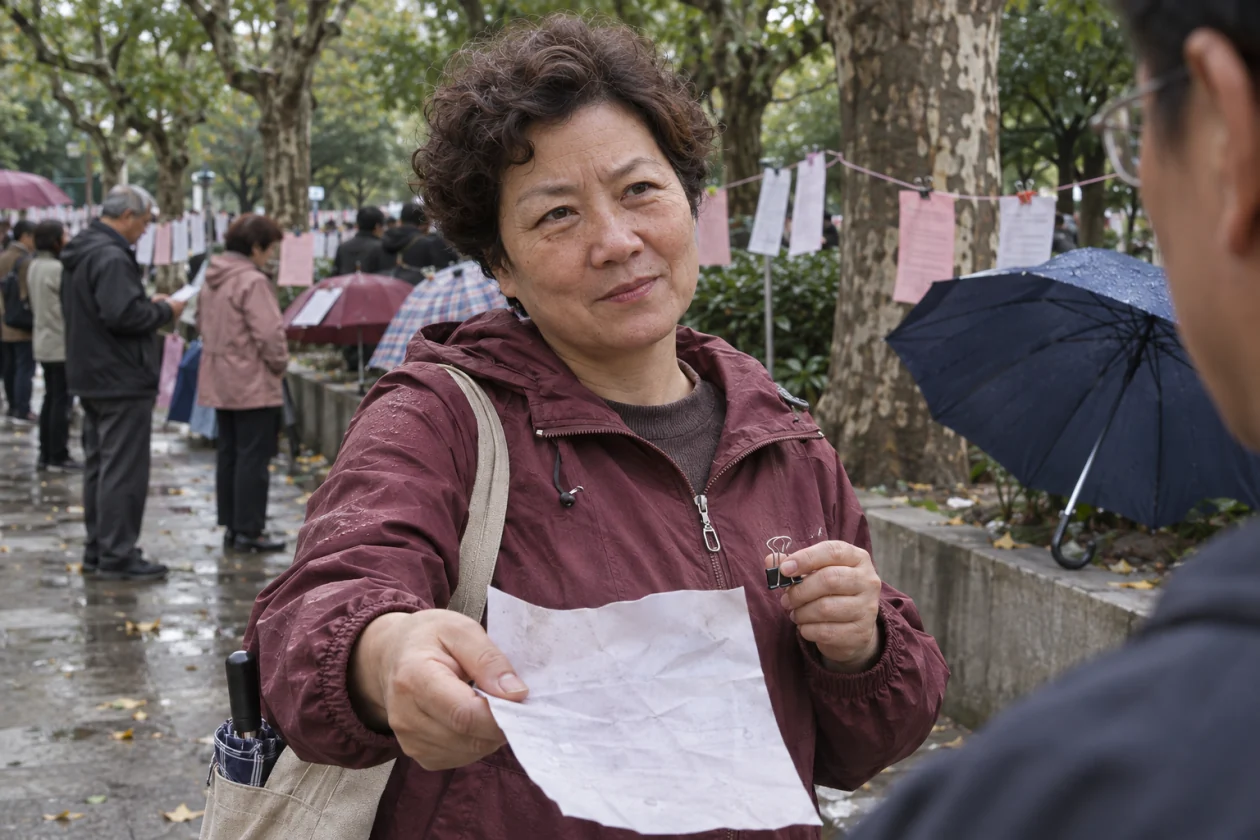
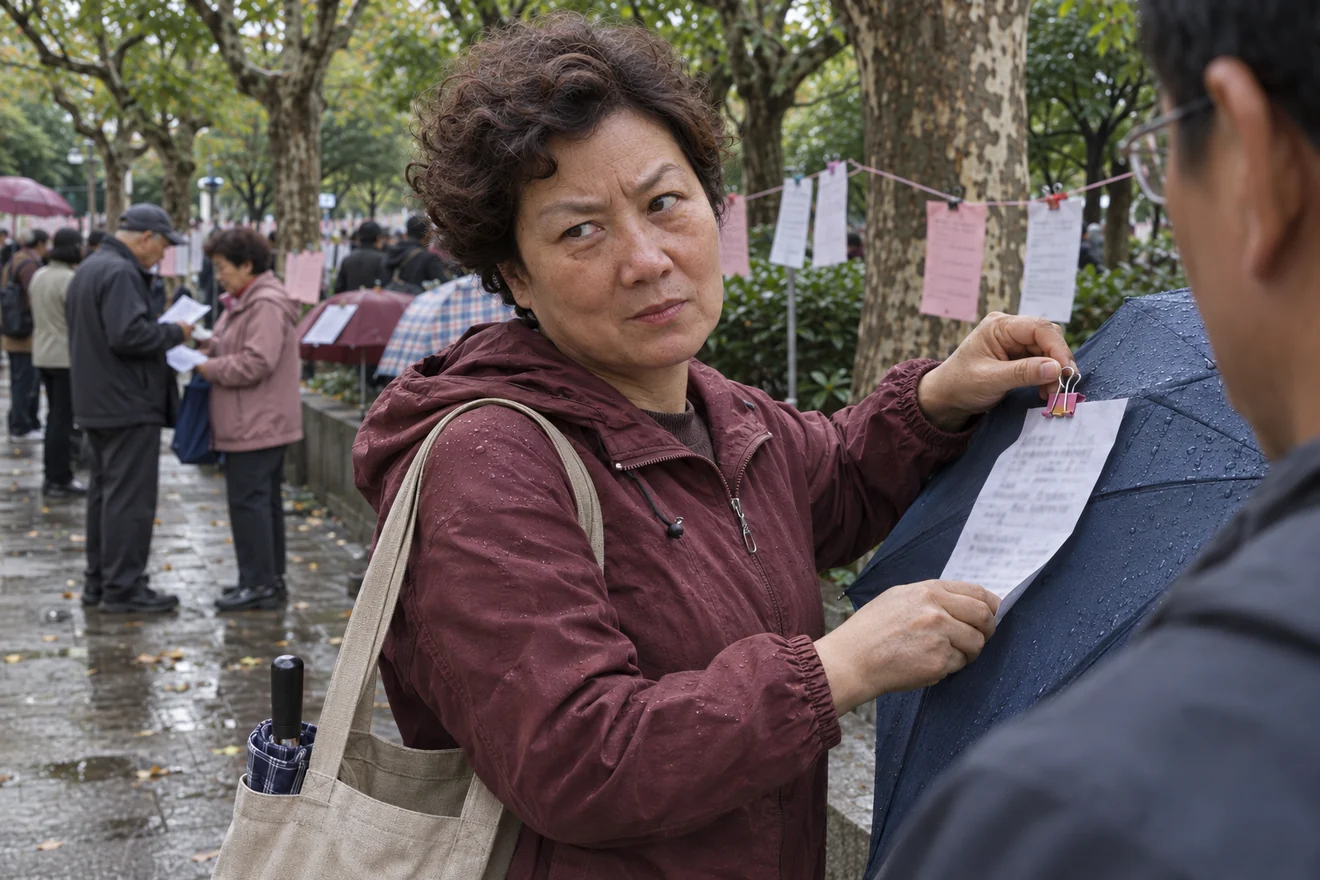
Follow the Shanghai matchmaking corner into the next year

diff --git a/src/game/matchmaking.ts b/src/game/matchmaking.ts
@@ -1,10 +1,13 @@
 import { matchPhoto } from './art';
+import { householdPlan, housingPayment } from './household';
 import type { GameState, LifeEvent } from './types';
 
 type Visit = { event: LifeEvent; message?: string };
 
 const openingId = 'matchmaking-paper';
 const location = { category: 'romance', district: 'people', tag: '相亲角' } as const;
+const rent = 2800;
+const formatMoney = (value: number) => '¥' + value.toLocaleString('zh-CN');
 
 function opening(housing: GameState['housing']): LifeEvent {
  const owns = housing === 3;
@@ -41,7 +44,7 @@ function listed(overstated: boolean): LifeEvent {
     effect: { skill: 7, trust: 8, network: 4 } },
    { id: 'buy', label: '先把话题岔开 · 今天我请 ¥128',
     reply: '她把多点的点心装进袋子，说她妈下次还要问。你到家发现一张纸夹在袋里，有房那行被奶茶洇得看不清了。',
-    effect: { cash: -128, spirit: -3, face: 4 } },
+    effect: { cash: -128, spirit: -3, face: 4, setFlags: ['match-left-address'] } },
   ],
  };
 }
@@ -52,7 +55,7 @@ const edited: LifeEvent = {
  choices: [
   { id: 'practice', label: '趁摊没开 · 一人挑一段简历改',
    reply: '你把「协助参与」圈了出来。唐圆问你自己上回那份写的什么，你翻了一下，也是一模一样四个字。',
-   effect: { skill: 8, trust: 7 } },
+   effect: { skill: 8, trust: 7, setFlags: ['match-edited-resume'] } },
   { id: 'eat', label: '先吃馄饨 · 顺便打包一碗 ¥40',
    reply: '你把打包的递给唐圆。她说她妈下礼拜还来挂纸，到时候给她带去，让她站在那儿也有口热的。',
    effect: { cash: -40, spirit: 9, trust: 8 } },
@@ -68,9 +71,9 @@ const folded: LifeEvent = {
  choices: [
   { id: 'hang', label: '就在这儿拍 · 我帮你把纸挂上',
    reply: '她写「不赶路，也不迟到」。隔壁的爷叔看了，说能不能十点半就到，摊上还剩两条小黄鱼。他们约好了在菜场门口等。',
-   effect: { network: 9, trust: 10 } },
+   effect: { network: 9, trust: 10, setFlags: ['match-hung-aunt'] } },
   { id: 'walk', label: '这礼拜先跟我走 · 九点门口见',
-   reply: '走到菜场她把你丢给卖豆腐的摊主，自己去买鱼。回来时豆腐摊主已经跟你讲完了他儿子两次辞职的事。',
+   reply: '走到菜场她让你给她拍一张，自己接着去买鱼。回来时豆腐摊主已经跟你讲完了他儿子两次辞职的事。',
    effect: { health: 5, network: 6, trust: 5 } },
   { id: 'print', label: '只拍张本人 · 洗两张 ¥12',
    reply: '她把一张塞进透明手机壳，另一张寄给了外地的老同学。后来你路过，那张纸上换了行字，写的是什么时候去逛菜场。',
@@ -78,14 +81,109 @@ const folded: LifeEvent = {
  ],
 };
 
+function leaseVisit(housing: number, leaseRent?: number, shared = false, leftAddress = false): LifeEvent {
+ const canMove = housing < 3 && !shared;
+ const memory = leftAddress
+  ? '唐圆把当初洇花的那张纸也带来了。她说这回先看哪间真能住。'
+  : '唐圆把你们当初那两张纸翻到背面，上头记着房东的号码。';
+ return {
+  ...location, id: 'matchmaking-lease', title: '房东只配了一把钥匙',
+  speakerId: 'tang', illustration: matchPhoto('lease'),
+  text: memory + ' 同一层空了两间。她已经定下靠楼梯的那间，另一间月租两千八，水电各算。房东说明早还有人看，今天要留就先押一个月。',
+  choices: [
+   canMove ? {
+    id: 'sign', label: '签隔壁这间 · 押 ¥2,800',
+    hint: '你的月租 ' + formatMoney(housingPayment(housing, leaseRent, false)) + ' → ' + formatMoney(rent),
+    reply: '房东翻了半天只找到一把。你和唐圆一起下楼配钥匙，回来时已经能分清哪一扇门是自己的。',
+    effect: { housing: 1, leaseRent: rent, cash: -rent, trust: 9, setFlags: ['match-neighbor'] },
+   } : {
+    id: 'sign', label: '我有住处 · 陪她给门锁配把备用钥匙',
+    reply: '配钥匙的师傅问要不要多打一把。唐圆说两把够了，又补一句，一把先放你那儿，哪天忘带好找。',
+    effect: { cash: -25, trust: 9 },
+   },
+   { id: 'measure', label: '先不搬 · 帮她把水电表拍下来',
+    reply: '唐圆让你再拍一张近的。房东说差一格也没多少钱，她把手机放到合同旁边，说那就更好写进去。',
+    effect: { skill: 7, trust: 6 } },
+   { id: 'pass', label: '问清空房的价 · 转给正在找房的人',
+    reply: '你把采光最差的那张也发了。对方看完问能不能便宜两百。唐圆说这才像有人真的在找房。',
+    effect: { network: 8, face: 4 } },
+  ],
+ };
+}
+
+function workVisit(employed: boolean, editedResume = false): LifeEvent {
+ const memory = editedResume
+  ? '唐圆认出报名表上那句「协助参与」，说这回轮到写招聘的人交代清楚。'
+  : '唐圆把招聘表往馄饨碗旁边挪了挪，说这回先把钱那栏看完。';
+ return {
+  ...location, id: 'matchmaking-work', title: '招聘表最后一栏是周末',
+  speakerId: 'tang', illustration: matchPhoto('work'),
+  text: memory + ' 社区活动室在找人。试班一天三百六，正式上班得接两次周末。唐圆想先接半天，她问你要不要跟她去一趟。',
+  choices: [
+   { id: 'shift', label: '一起接今天的班 · 当天结 ¥360',
+    reply: '你们把来办事的人按门牌分成两列。最后一位爷叔排了两遍，说第一遍是替楼上的邻居。',
+    effect: { cash: 360, health: -3, network: 5, trust: 7, setFlags: ['match-worked-together'] } },
+   employed ? {
+    id: 'job', label: '我有班上 · 帮她问清周末怎么轮',
+    reply: '负责人说两次就是两次。唐圆追问到对方拿出上个月的排班表，你们从第一格数到最后一格。',
+    effect: { skill: 6, trust: 8 },
+   } : {
+    id: 'job', label: '接正式班 · 每月轮两次周末',
+    hint: '入职公共与社区 · 基本月薪 ¥7,200',
+    reply: '你把名字签在第一周。唐圆选了临时班，看到你的名字又往后挪了一格，说至少有一班能搭着干。',
+    effect: { job: 'public', trust: 7, skill: 4, setFlags: ['match-worked-together'] },
+   },
+   { id: 'help', label: '我不接 · 先帮她试一遍怎么问工钱',
+    reply: '你装负责人，她问了三遍午休算不算工时。上场后她只问了一遍，对面就拿出一张新的表。',
+    effect: { skill: 8, trust: 6 } },
+  ],
+ };
+}
+
+function marketVisit(hung = false): LifeEvent {
+ const memory = hung ? '看过她照片的那位爷叔已经在鱼摊等。' : '汪阿姨带着你拍的照片来买鱼。摊边那位提布袋的爷叔先认出了她，说你不就在公园门口挂过伞。';
+ return {
+  ...location, id: 'matchmaking-market', title: '九点零五，鱼摊见',
+  speakerId: 'aunt', illustration: matchPhoto('market'),
+  text: memory + ' 汪阿姨挑了两条小黄鱼，问价时鱼摊老板把另一袋递给她，说爷叔已经付过。她不肯收两份，问你哪袋带回家、哪袋拿去楼下烧。',
+  choices: [
+   { id: 'table', label: '一起拿到楼下烧 · 给鱼摊老板留个位',
+    reply: '他们搭了张折桌，短的那条腿下面塞了三张旧菜单。你问还晃不晃，汪阿姨伸手按住，说坐下来吃就不晃。',
+    effect: { spirit: 9, network: 7, trust: 7, setFlags: ['match-market-table'] } },
+   { id: 'buy', label: '再称两条 · 拿一袋回家 ¥36',
+    reply: '鱼摊老板把三袋放上秤，算到最后只收了你的钱。汪阿姨回去给你发做法，第一句是锅先别洗。',
+    effect: { cash: -36, spirit: 8, trust: 8 } },
+   { id: 'leave', label: '让他们自己分 · 我替你去收伞',
+    reply: '你把蓝伞带回公园。原来夹照片的地方还空着，你干脆把夹子拿下来，别在伞套上。',
+    effect: { health: 4, network: 5, trust: 8 } },
+  ],
+ };
+}
+
+function seenInPreviousYear(state: GameState, event: LifeEvent) {
+ if (!state.seenEvents.includes(event.id)) return false;
+ const entry = state.journal.find(item => item.tag === location.tag && item.title === event.title);
+ return entry !== undefined && entry.age < state.age;
+}
+
 export function parkVisit(state: GameState): Visit | null {
- if (state.pendingYearEvent || state.ended) return null;
+ if (state.pendingYearEvent || state.ended || state.actions <= 0) return null;
  if (!state.seenEvents.includes(openingId)) return state.partnerId ? null : { event: opening(state.housing) };
- const next = state.flags.includes('match-listed') ? { event: listed(state.flags.includes('match-address-only')), message: '有人拿着你那张纸来问地址' }
-  : state.flags.includes('match-edited') ? { event: edited, message: '唐圆在长椅上给你留了个位' }
-  : state.flags.includes('match-folded') ? { event: folded, message: '汪阿姨问你能不能帮她拍张照' }
+ const flags = state.flags;
+ const next = flags.includes('match-listed') ? { event: listed(flags.includes('match-address-only')), message: '有人拿着你那张纸来问地址' }
+  : flags.includes('match-edited') ? { event: edited, message: '唐圆在长椅上给你留了个位' }
+  : flags.includes('match-folded') ? { event: folded, message: '汪阿姨问你能不能帮她拍张照' }
   : null;
- return next && !state.seenEvents.includes(next.event.id) ? next : null;
+ if (!next) return null;
+ if (!state.seenEvents.includes(next.event.id)) return next;
+ if (!seenInPreviousYear(state, next.event)) return null;
+ const follow = flags.includes('match-listed') ? {
+  event: leaseVisit(state.housing, state.leaseRent, householdPlan(state) === 'shared', flags.includes('match-left-address')), message: '唐圆说她隔壁空出一间',
+ } : flags.includes('match-edited') ? {
+  event: workVisit(Boolean(state.jobId), flags.includes('match-edited-resume')), message: '唐圆想请你一起去试班',
+ } : { event: marketVisit(flags.includes('match-hung-aunt')), message: '汪阿姨把约会改到鱼摊了' };
+ return state.seenEvents.includes(follow.event.id) ? null : follow;
 }
 
 export const PARK_TICKET_SCENES = [opening(1), listed(true), edited, folded] as const;
+export const PARK_RETURN_TICKET_SCENES = [leaseVisit(1, undefined, false, true), workVisit(false, true), marketVisit(true)] as const;

diff --git a/src/App.tsx b/src/App.tsx
@@ -293,6 +293,7 @@ export default function App(){
  const openingMessages=activeEvent?.id==='first-night-arrival';
  const rentalEvidence=activeEvent?.rentalEvidence;
  const tableScene=scenePhoto?.startsWith('/art/long-table/')??false;
+ const parkScene=scenePhoto?.startsWith('/art/matchmaking/')??false;
  const offerScene=!!activeEvent&&isJobOffer(activeEvent.id);
  const stallScene=!!activeEvent&&isStallSettlement(activeEvent.id);
  const birthScene=activeEvent?.id.startsWith('origin-arrival-')??false;
@@ -300,7 +301,7 @@ export default function App(){
  const signedOffer=!!outcome?.source&&isJobOffer(outcome.source.event.id)&&outcome.effect.payRate!==undefined;
  const focusScene=Boolean(activeEvent?.firstDate)||rentalEvidence!==undefined||tableScene||offerScene||birthScene||stallScene||householdScene;
  const partingBill=activeEvent?.firstDate ? -(activeEvent.choices[0].effect.cash??0) : 0;
- const wideShot=scenePhoto?.startsWith('/art/shanghai-streets/first-night-')||scenePhoto?.startsWith('/art/dates/')||scenePhoto?.startsWith('/art/endings/farewell-')||scenePhoto?.startsWith('/art/work/')||scenePhoto?.startsWith('/art/pearl/')||scenePhoto?.startsWith('/art/matchmaking/')||scenePhoto?.startsWith('/art/opening/')||scenePhoto?.startsWith('/art/rental/')||scenePhoto?.startsWith('/art/night-ferry/')||tableScene||offerScene||stallScene;
+ const wideShot=scenePhoto?.startsWith('/art/shanghai-streets/first-night-')||scenePhoto?.startsWith('/art/dates/')||scenePhoto?.startsWith('/art/endings/farewell-')||scenePhoto?.startsWith('/art/work/')||scenePhoto?.startsWith('/art/pearl/')||parkScene||scenePhoto?.startsWith('/art/opening/')||scenePhoto?.startsWith('/art/rental/')||scenePhoto?.startsWith('/art/night-ferry/')||tableScene||offerScene||stallScene;
  const leadButtons=game&&(lead||cardLead)?<div className="story-leads">{[lead,cardLead].map(item=>item&&<button
   key={item.event.id} className={'story-lead'+(item===cardLead?' opening-lead':'')}
   disabled={blocked||game.actions<=0} onClick={()=>openLead(item.event)}>
@@ -383,7 +384,7 @@ export default function App(){
  </main>}
  {screen==='end'&&game&&<EndingScreen game={game} sharing={sharing} onShare={share}
   onChallenge={copyChallenge} onDraw={beginDraw} onJournal={()=>setModal('journal')} onLines={()=>setModal('lines')}/>}
- {dialogOpen&&<div className="modal-backdrop" onMouseDown={e=>{if(e.target===e.currentTarget&&!activeEvent&&!mini&&!outcome)setModal(null);}}><section className={'modal '+(activeEvent?'event-modal':'')+(wideShot?' wide-shot-modal':'')+(openingMessages?' arrival-modal':'')+(activeEvent?.firstDate?' date-parting-modal':'')+(rentalEvidence!==undefined?' rental-negotiation':'')+(tableScene?' long-table-modal':'')+(offerScene?' job-offer-modal':'')+(birthScene||stallScene||householdScene?' birth-scene-modal':'')+(mini?' minigame-modal':'')+(mini?.type==='rental'?' rental-modal':'')+(mini?.type==='stall'?' stall-modal':'')+(mini?.type==='dialogue'?(mini.person?' date-modal':' date-modal work-interview-modal'):'')+(modal==='romance'?' romance-modal':'')+(modal==='journal'?' journal-modal':'')+(modal==='lines'?' lines-modal':'')} role="dialog" aria-modal="true" aria-label={activeEvent?.title||outcome?.title||(mini?.type==='stall'?'晚风小吃街':mini?'人生现场':modal==='saves'?'存档':modal==='journal'?'人生记事':modal==='lines'?'时间线':modal==='contacts'?(profile?.name??'认识的人'):'魔都人生')}>
+ {dialogOpen&&<div className="modal-backdrop" onMouseDown={e=>{if(e.target===e.currentTarget&&!activeEvent&&!mini&&!outcome)setModal(null);}}><section className={'modal '+(activeEvent?'event-modal':'')+(wideShot?' wide-shot-modal':'')+(openingMessages?' arrival-modal':'')+(activeEvent?.firstDate?' date-parting-modal':'')+(rentalEvidence!==undefined?' rental-negotiation':'')+(tableScene?' long-table-modal':'')+(parkScene?' match-scene':'')+(offerScene?' job-offer-modal':'')+(birthScene||stallScene||householdScene?' birth-scene-modal':'')+(mini?' minigame-modal':'')+(mini?.type==='rental'?' rental-modal':'')+(mini?.type==='stall'?' stall-modal':'')+(mini?.type==='dialogue'?(mini.person?' date-modal':' date-modal work-interview-modal'):'')+(modal==='romance'?' romance-modal':'')+(modal==='journal'?' journal-modal':'')+(modal==='lines'?' lines-modal':'')} role="dialog" aria-modal="true" aria-label={activeEvent?.title||outcome?.title||(mini?.type==='stall'?'晚风小吃街':mini?'人生现场':modal==='saves'?'存档':modal==='journal'?'人生记事':modal==='lines'?'时间线':modal==='contacts'?(profile?.name??'认识的人'):'魔都人生')}>
  {!(activeEvent&&game?.pendingYearEvent)&&<button className="modal-close icon-button" aria-label="关闭" onClick={()=>{if(outcome)closeOutcome();else{setModal(null);setMini(null);dismissEvent();}}}><Icon name="close"/></button>}
  {modal==='help'&&<div className="help-content"><h2>怎么玩</h2><div className="help-step"><b>01</b><div><h3>先抽五张人生牌</h3><p>每类一张，有两次重抽机会。</p></div></div><div className="help-step"><b>02</b><div><h3>每年三次行动</h3><p>点地点办事，每次扣一格。走路、换城区不扣行动。</p></div></div><div className="help-step"><b>03</b><div><h3>年底结账</h3><p>点年度结算，工资到账，房租和生活费一起扣。六十岁结局。</p></div></div><button className="primary" onClick={()=>setModal(null)}>晓得了 <Icon name="check" size={18}/></button><small className="fiction-note">人物与怪谈均为虚构</small></div>}
  {modal==='lines'&&book&&<LifeLines book={book} onFork={branchFrom} onSwitch={returnToLine} onDrop={id=>setBook(current=>current?dropLine(current,id):current)}/>}

diff --git a/tests/matchmaking.test.ts b/tests/matchmaking.test.ts
@@ -1,6 +1,8 @@
 import { describe, expect, it } from 'vitest';
-import { createGame, drawOrigins, resolveChoice } from '../src/game/engine';
+import { createGame, drawOrigins, nextYear, resolveChoice } from '../src/game/engine';
+import { householdFlag } from '../src/game/household';
 import { activeLine, decodeLife, encodeLife, forkLife, recordDecision, replayScene, startBook, switchLine } from '../src/game/lifeLines';
+import { longTableYear } from '../src/game/longTable';
 import { parkVisit } from '../src/game/matchmaking';
 import { streetLead } from '../src/game/streetLeads';
 import { draftFromEvent, ticketFromHash, validateTicket, walk } from '../src/game/timelines';
@@ -70,5 +72,73 @@ describe("People's Park matchmaking corner", () => {
   const original = activeLine(switchLine(book, 0)).state;
   expect(original.seenEvents).toContain('matchmaking-coffee');
   expect(original.flags).not.toContain('match-folded');
+ });
+
+ it('opens the return visit after a year and replays the exact lease offer', () => {
+  const before = { ...start(), cash: 200000, leaseRent: 3600 };
+  const first = resolveChoice(before, parkVisit(before)!.event, 'list').state;
+  const second = resolveChoice(first, parkVisit(first)!.event, 'buy').state;
+  expect(parkVisit(second)).toBeNull();
+  const later = nextYear(second).state;
+  expect(parkVisit(later)).toBeNull();
+  const ready = { ...later, pendingYearEvent: false };
+  const offer = streetLead(ready)!.event;
+  expect(offer.id).toBe('matchmaking-lease');
+  expect(offer.text).toContain('洇花');
+  expect(offer.choices[0].hint).toContain('¥3,600 → ¥2,800');
+  const signed = resolveChoice(ready, offer, 'sign').state;
+  expect(signed.leaseRent).toBe(2800);
+  expect(signed.cash).toBe(ready.cash - 2800);
+  expect(nextYear(signed).rentExpense).toBe(33600);
+  expect(parkVisit(signed)).toBeNull();
+  const fork = activeLine(forkLife(decodeLife(encodeLife(recordDecision(startBook(ready), signed, offer, 'sign'))), 0));
+  expect(replayScene(fork.state, fork.replay!)).toEqual(offer);
+
+  const ownHome = { ...ready, housing: 3, leaseRent: undefined };
+  const sharesHome = { ...ready, partnerId: 'lu', flags: [...ready.flags, householdFlag('lu', 'shared')] };
+  for (const state of [ownHome, sharesHome]) {
+   const visit = parkVisit(state)!.event;
+   const result = resolveChoice(state, visit, 'sign').state;
+   expect(result.housing).toBe(state.housing);
+   expect(result.leaseRent).toBe(state.leaseRent);
+  }
+ });
+
+ it('keeps a current job and remembers both ways the old folding table got used', () => {
+  const before = start();
+  for (const [firstPick, secondPick, finalPick, eventId, callback] of [
+   ['edit', 'practice', 'job', 'matchmaking-work', '排过班'],
+   ['fold', 'hang', 'table', 'matchmaking-market', '旧菜单'],
+  ]) {
+   const first = resolveChoice(before, parkVisit(before)!.event, firstPick).state;
+   const second = resolveChoice(first, parkVisit(first)!.event, secondPick).state;
+   const ready = { ...second, age: 19, actions: 3, jobId: null };
+   const event = parkVisit(ready)!.event;
+   expect(event.id).toBe(eventId);
+   const result = resolveChoice(ready, event, finalPick);
+   expect(longTableYear({ ...result.state, age: 32 })?.text).toContain(callback);
+   expect(draftFromEvent(event, finalPick, result.text, 19, '人民广场').turns[0].shot).toBe(event.illustration);
+   if (firstPick === 'edit') {
+    expect(result.state.jobId).toBe('public');
+    const employed = { ...ready, jobId: 'tech' };
+    const other = parkVisit(employed)!.event;
+    expect(resolveChoice(employed, other, 'job').state.jobId).toBe('tech');
+    const olderSave = { ...ready, flags: ready.flags.filter(flag => flag !== 'match-edited-resume') };
+    expect(parkVisit(olderSave)!.event.id).toBe(eventId);
+   }
+  }
+ });
+
+ it('opens three return routes independently in the other life mode', () => {
+  const { timeline } = validateTicket(ticketFromHash('#story=park-next-year'));
+  expect(timeline.turns[0].shot).toBe('/art/shanghai-streets/people.webp');
+  for (const [route, node, shot] of [
+   [[0, 0], 2, 'lease'], [[0, 1], 3, 'work'], [[1], 4, 'market'],
+  ] as const) {
+   const moves = route.map(pick => ({ pick }));
+   expect(walk(timeline, moves).next).toBe(node);
+   expect(timeline.turns[node].shot).toBe('/art/matchmaking/' + shot + '.webp');
+   expect(walk(timeline, [...moves, { pick: 0 }]).next).toBeNull();
+  }
  });
 });

diff --git a/src/game/timelines.ts b/src/game/timelines.ts
@@ -1,5 +1,5 @@
 import type { EventChoice, LifeEvent } from './types';
-import { PARK_TICKET_SCENES } from './matchmaking';
+import { PARK_RETURN_TICKET_SCENES, PARK_TICKET_SCENES } from './matchmaking';
 import { FERRY_STILLS, FIRST_NIGHT_STILLS, MATCH_STILLS, OPENING_STILLS, TABLE_STILLS, datePhoto, farewellPhoto, ferryPhoto, matchPhoto, offerPhoto, openingPhoto, pearlPhoto, rentalPhoto, stallPhoto, streetPhoto, tablePhoto, workPhoto } from './art';
 import { CAREERS, CAST } from './content';
 import { PHOTO_SHOP_STILLS, PHOTO_SHOP_STORY, photoShopStill } from './photoShop';
@@ -43,6 +43,7 @@ const archiveShots = {
 };
 const ticketShots = new Set([
   streetPhoto('station'),
+  streetPhoto('people'),
   ...Object.values(archiveShots),
   ...PHOTO_SHOP_STILLS.map(photoShopStill),
   ...FIRST_NIGHT_STILLS.map(streetPhoto),
@@ -89,6 +90,35 @@ const parkStory: Timeline = {
       date: ['下午', '摊主还没来', '收伞前'][index],
       place: ['公园门口 · 奶茶店', '人民公园 · 长椅', '人民公园 · 相亲角'][index],
       scene: event.text, shot: event.illustration, options: event.choices.slice(0, 2).map(choice => ticketOption(choice, null)),
+    })),
+  ],
+};
+
+const parkReturn: Timeline = {
+  id: 'park-next-year', kind: 'life', title: '第二年，汪阿姨没来', author: '魔都人生',
+  original: '我去了鱼摊。汪阿姨果然在，正跟人争哪条鱼算大的。中午一桌五个人，只有鱼摊老板没吃到鱼，他把饭吃完就去称虾了。',
+  turns: [
+    {
+      date: '又到礼拜天', place: '人民公园 · 老位置', shot: streetPhoto('people'),
+      scene: '相亲角开了半天，那把蓝伞一直没撑起来。唐圆发来两条消息，说这回有个活，顺路还能看间房。汪阿姨也发了，只有四个字「鱼摊见面」。',
+      options: [
+        { move: '去公园门口找唐圆', after: '她把没喝完的奶茶递给你腾手，从包里抽出两张纸。', next: 1 },
+        { move: '去菜场找汪阿姨', after: '你在卖豆腐的摊位借过一下，前面有人拿两只鱼袋比大小。', next: 4 },
+      ],
+    },
+    {
+      date: '过了十分钟', place: '公园门口', shot: matchPhoto('bench'),
+      scene: '一张是租房地址，一张是招工的排班表。唐圆看了眼手机。房东十一点就要走，社区活动室的试班也快开始了。',
+      options: [
+        { move: '先去楼上看那间房', after: '你们上到二楼才发现，楼下晒衣服的人就是房东。', next: 2 },
+        { move: '先去问活动室怎么排班', after: '唐圆把租房地址折起来。你看她在表上画了个圈，圈的是试班。', next: 3 },
+      ],
+    },
+    ...PARK_RETURN_TICKET_SCENES.map((event, index) => ({
+      date: ['上午十一点', '试班之前', '九点零五'][index],
+      place: ['公园后街 · 二楼', '街坊活动室', '菜场 · 小黄鱼摊'][index],
+      scene: event.text, shot: event.illustration,
+      options: (index === 1 ? [event.choices[1], event.choices[2]] : event.choices.slice(0, 2)).map(choice => ticketOption(choice, null)),
     })),
   ],
 };
@@ -161,6 +191,7 @@ export const CITY_TIMELINES: Timeline[] = [
     ],
   },
   parkStory,
+  parkReturn,
   {
     id: 'half-table', kind: 'life', title: '折起来只有半张', author: '魔都人生',
     original: '那天我让收废品的把桌腿带走了。二十一年后，唐圆从桌底撕出半张报纸。我一看，还是那年给旧桌脚垫的。',

diff --git a/src/game/longTable.ts b/src/game/longTable.ts
@@ -87,7 +87,12 @@ export function longTableYear(state: GameState): LifeEvent | undefined {
    : '唐圆从储藏间拖来一张旧折桌，少了一小块桌角。';
   return { ...keepTheRoom, text: memory + ' ' + keepTheRoom.text };
  }
- if (age >= 32 && age <= 44 && !seenEvents.includes(takeTheTable.id)) return takeTheTable;
+ if (age >= 32 && age <= 44 && !seenEvents.includes(takeTheTable.id)) {
+  const memory = flags.includes('match-market-table') ? '你一眼认出桌腿下面塞过旧菜单的那张桌子。'
+   : flags.includes('match-worked-together') ? '你们当年在这张桌上排过班，桌板背面还有你划错的那一道。'
+   : flags.includes('match-neighbor') ? '你们住隔壁那会儿，楼道里也放过一张差不多的桌。搬进来的头两天，谁也没好意思把它挪走。' : '';
+  return memory ? { ...takeTheTable, text: takeTheTable.text + memory } : takeTheTable;
+ }
  return undefined;
 }
 

diff --git a/src/street.css b/src/street.css
@@ -176,6 +176,11 @@
 @media (max-width: 480px) and (max-height: 720px) {
   .arrival-modal .event-photo { aspect-ratio: 5 / 2; }
   .arrival-modal .event-photo > img { object-position: 18% 40%; }
+  .match-scene .event-photo { aspect-ratio: 2 / 1; }
+  .match-scene .event-content h2 { margin-top: 12px; }
+  .match-scene .event-body { margin-top: 10px; line-height: 1.55; }
+  .match-scene .event-choices { gap: 6px; margin-top: 12px; }
+  .match-scene .event-choices > button { min-height: 52px; padding-block: 8px; }
   .arrival-modal .event-choices { margin-top: 14px; gap: 7px; }
   .arrival-modal .event-choices > button { padding-block: 8px; min-height: 66px; }
   :is(.job-offer-modal,.birth-scene-modal) .event-photo { aspect-ratio: 2 / 1; margin-bottom: 11px; }

diff --git a/src/game/art.ts b/src/game/art.ts
@@ -94,7 +94,7 @@ export function rentalPhoto(shot: (typeof RENTAL_STILLS)[number]): string {
  return '/art/rental/' + shot + '.webp';
 }
 
-export const MATCH_STILLS = ['paper', 'coffee', 'bench', 'own-umbrella'] as const;
+export const MATCH_STILLS = ['paper', 'coffee', 'bench', 'own-umbrella', 'lease', 'work', 'market'] as const;
 
 export function matchPhoto(shot: (typeof MATCH_STILLS)[number]): string {
  return '/art/matchmaking/' + shot + '.webp';
